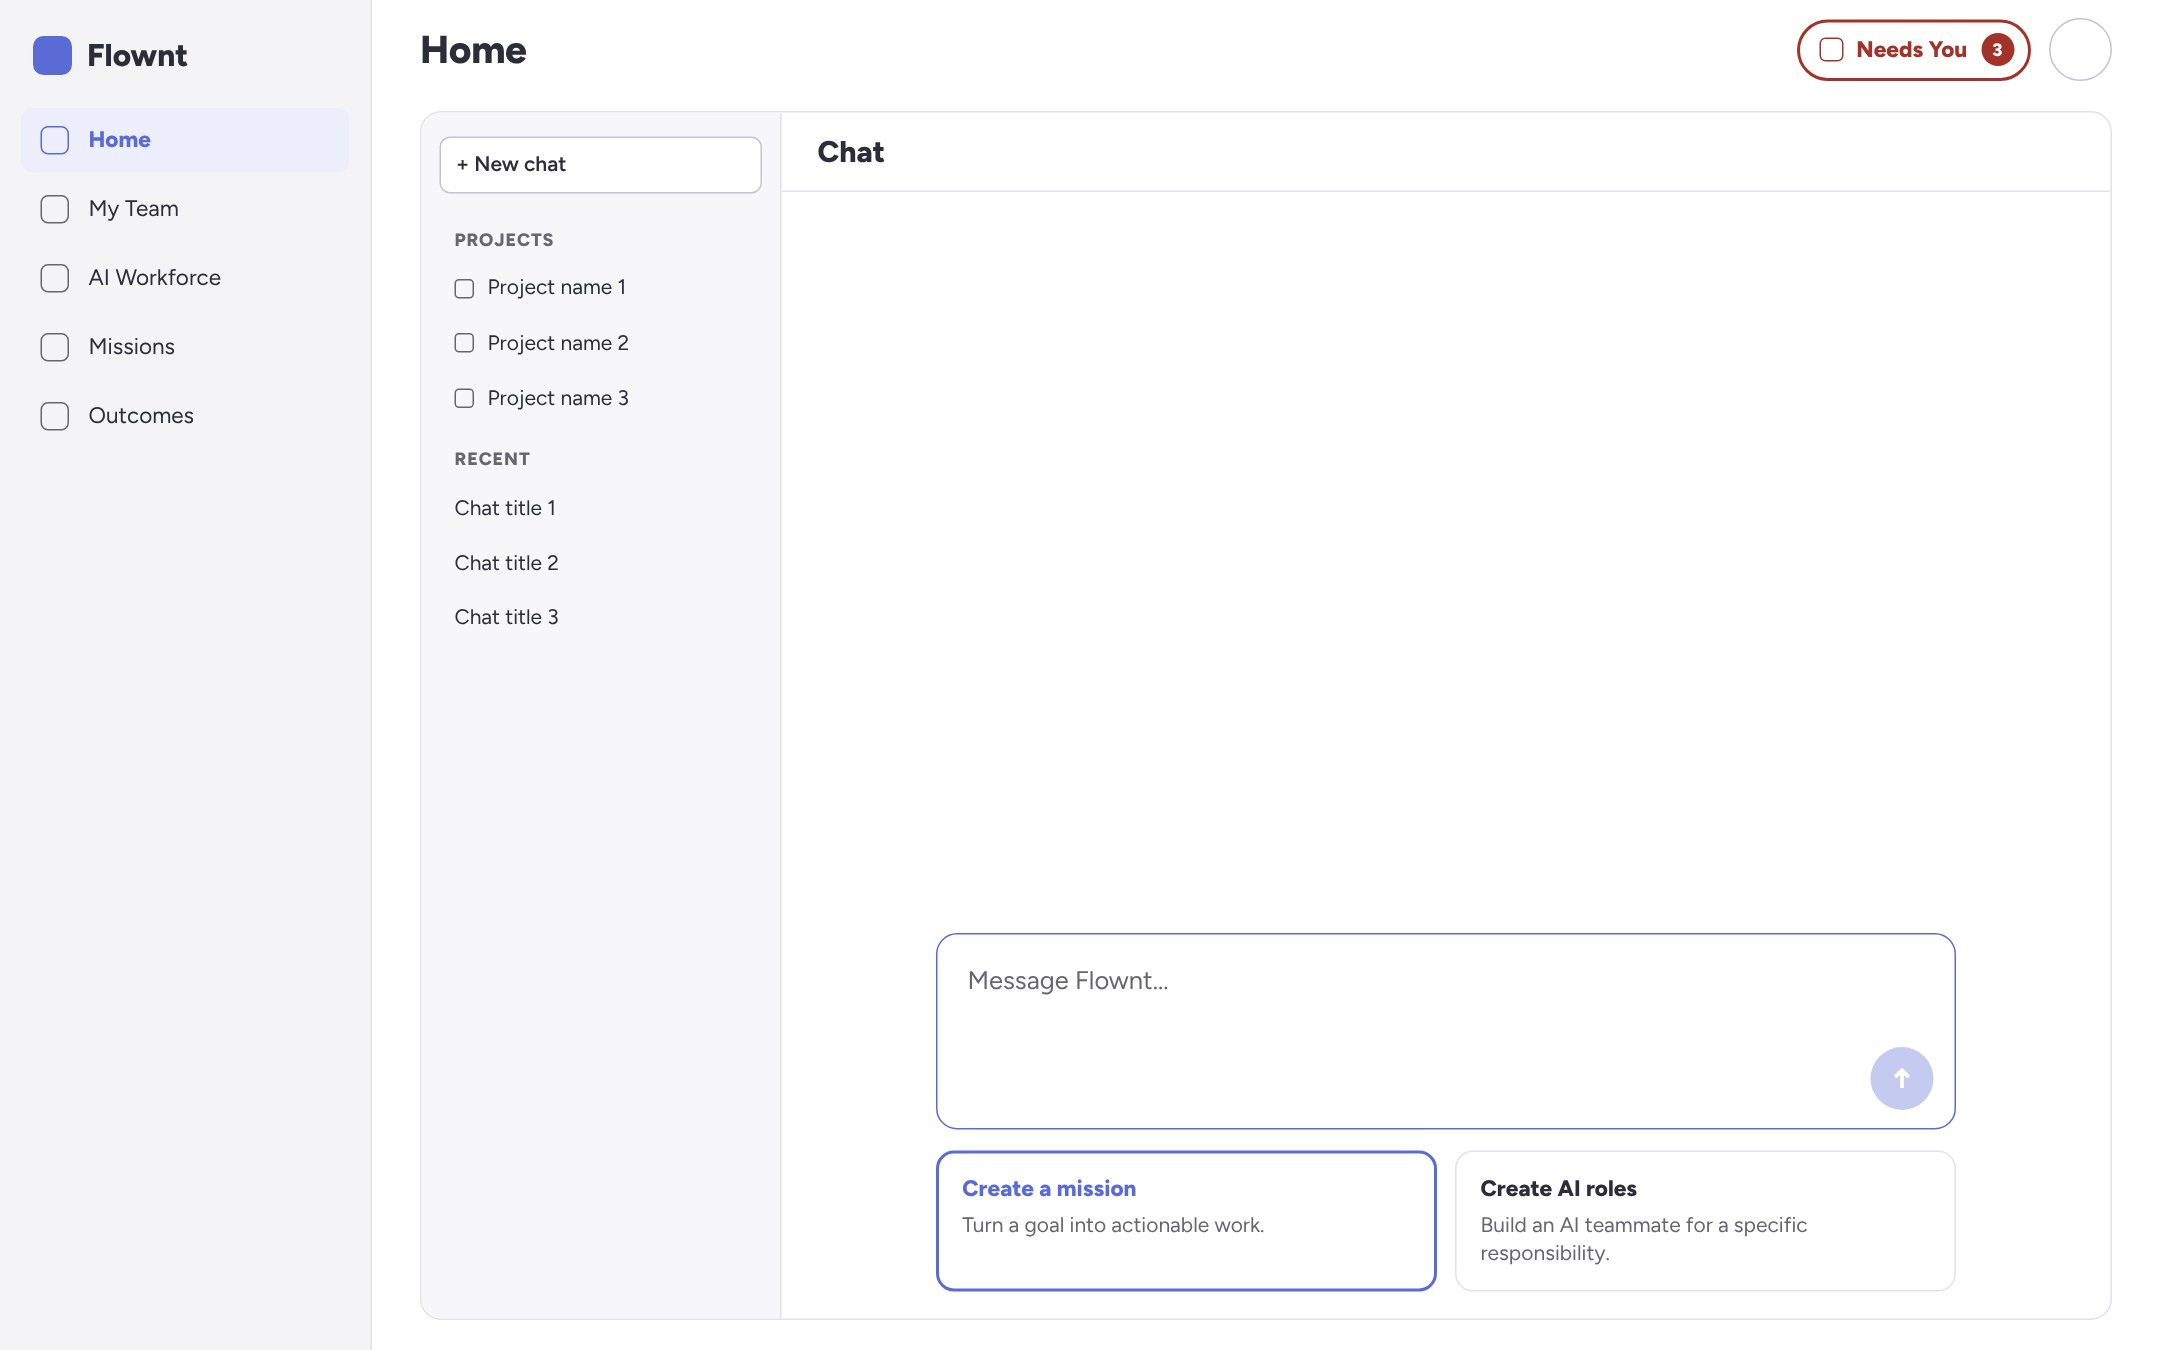
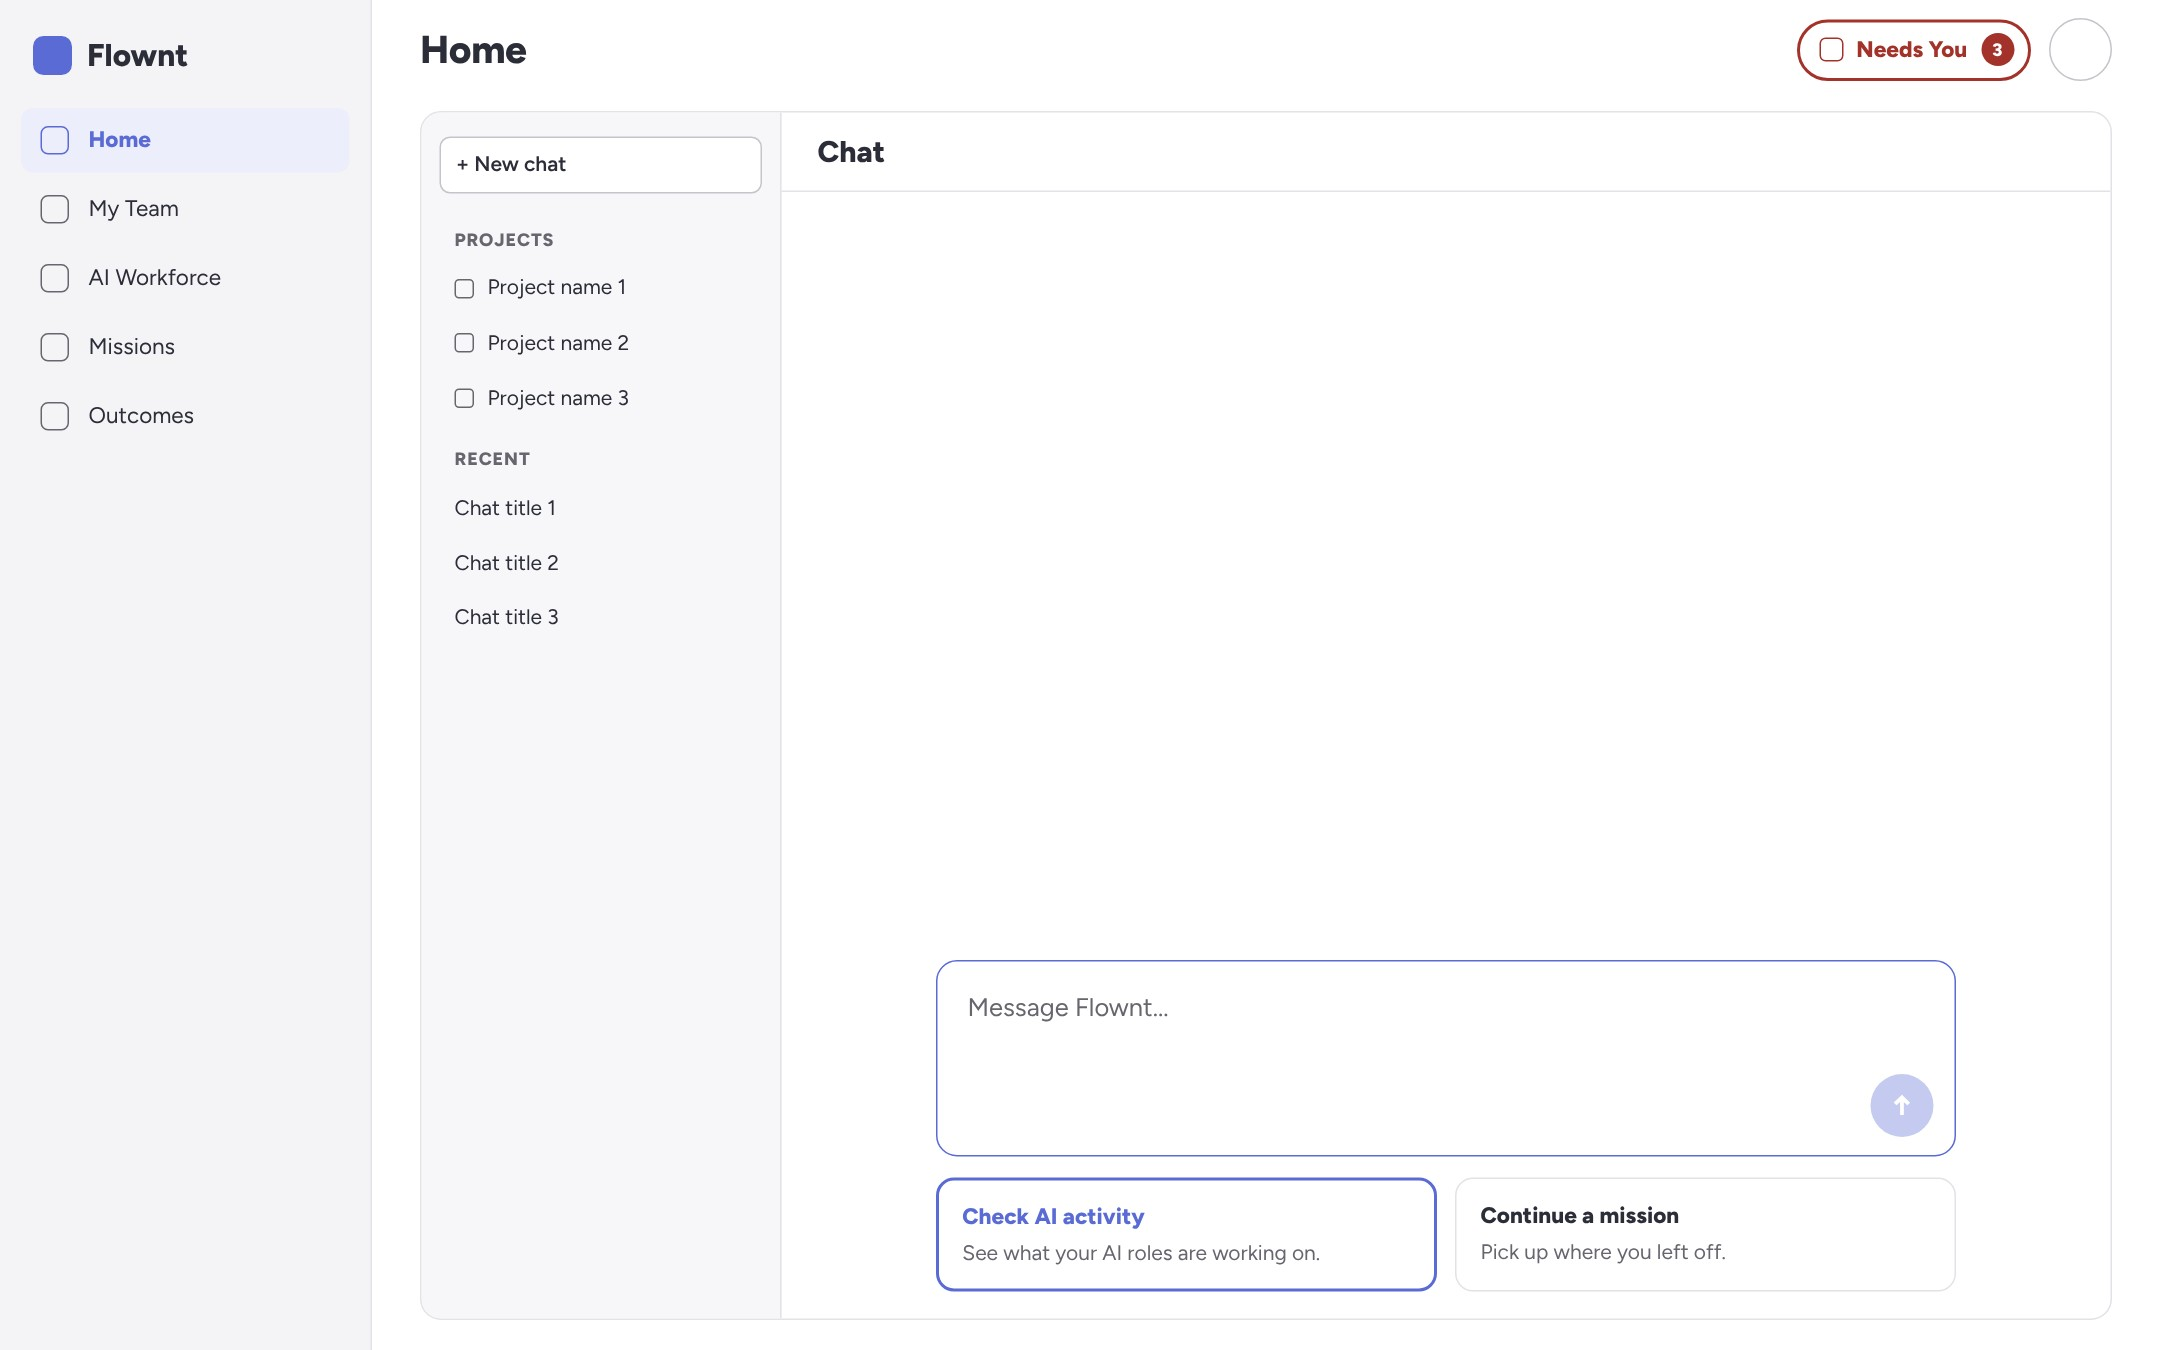
Update Team Member home prompts to Check AI activity and Continue a mission
Claude-Session: https://claude.ai/code/session_01T4LfQHDUyhHxB1DDxUcU4S

diff --git a/index.html b/index.html
@@ -81,7 +81,7 @@
     <h2>Home</h2>
     <figure class="home-shot">
       <figcaption>Team Member</figcaption>
-      <img src="assets/home-member.jpg" width="2160" height="1350" loading="lazy" alt="Flownt Home for a Team Member: the same layout with two quick actions: Create a mission and Create AI roles.">
+      <img src="assets/home-member.jpg" width="2160" height="1350" loading="lazy" alt="Flownt Home for a Team Member: the same layout with two quick actions: Check AI activity and Continue a mission.">
     </figure>
   </section>
 </body>
